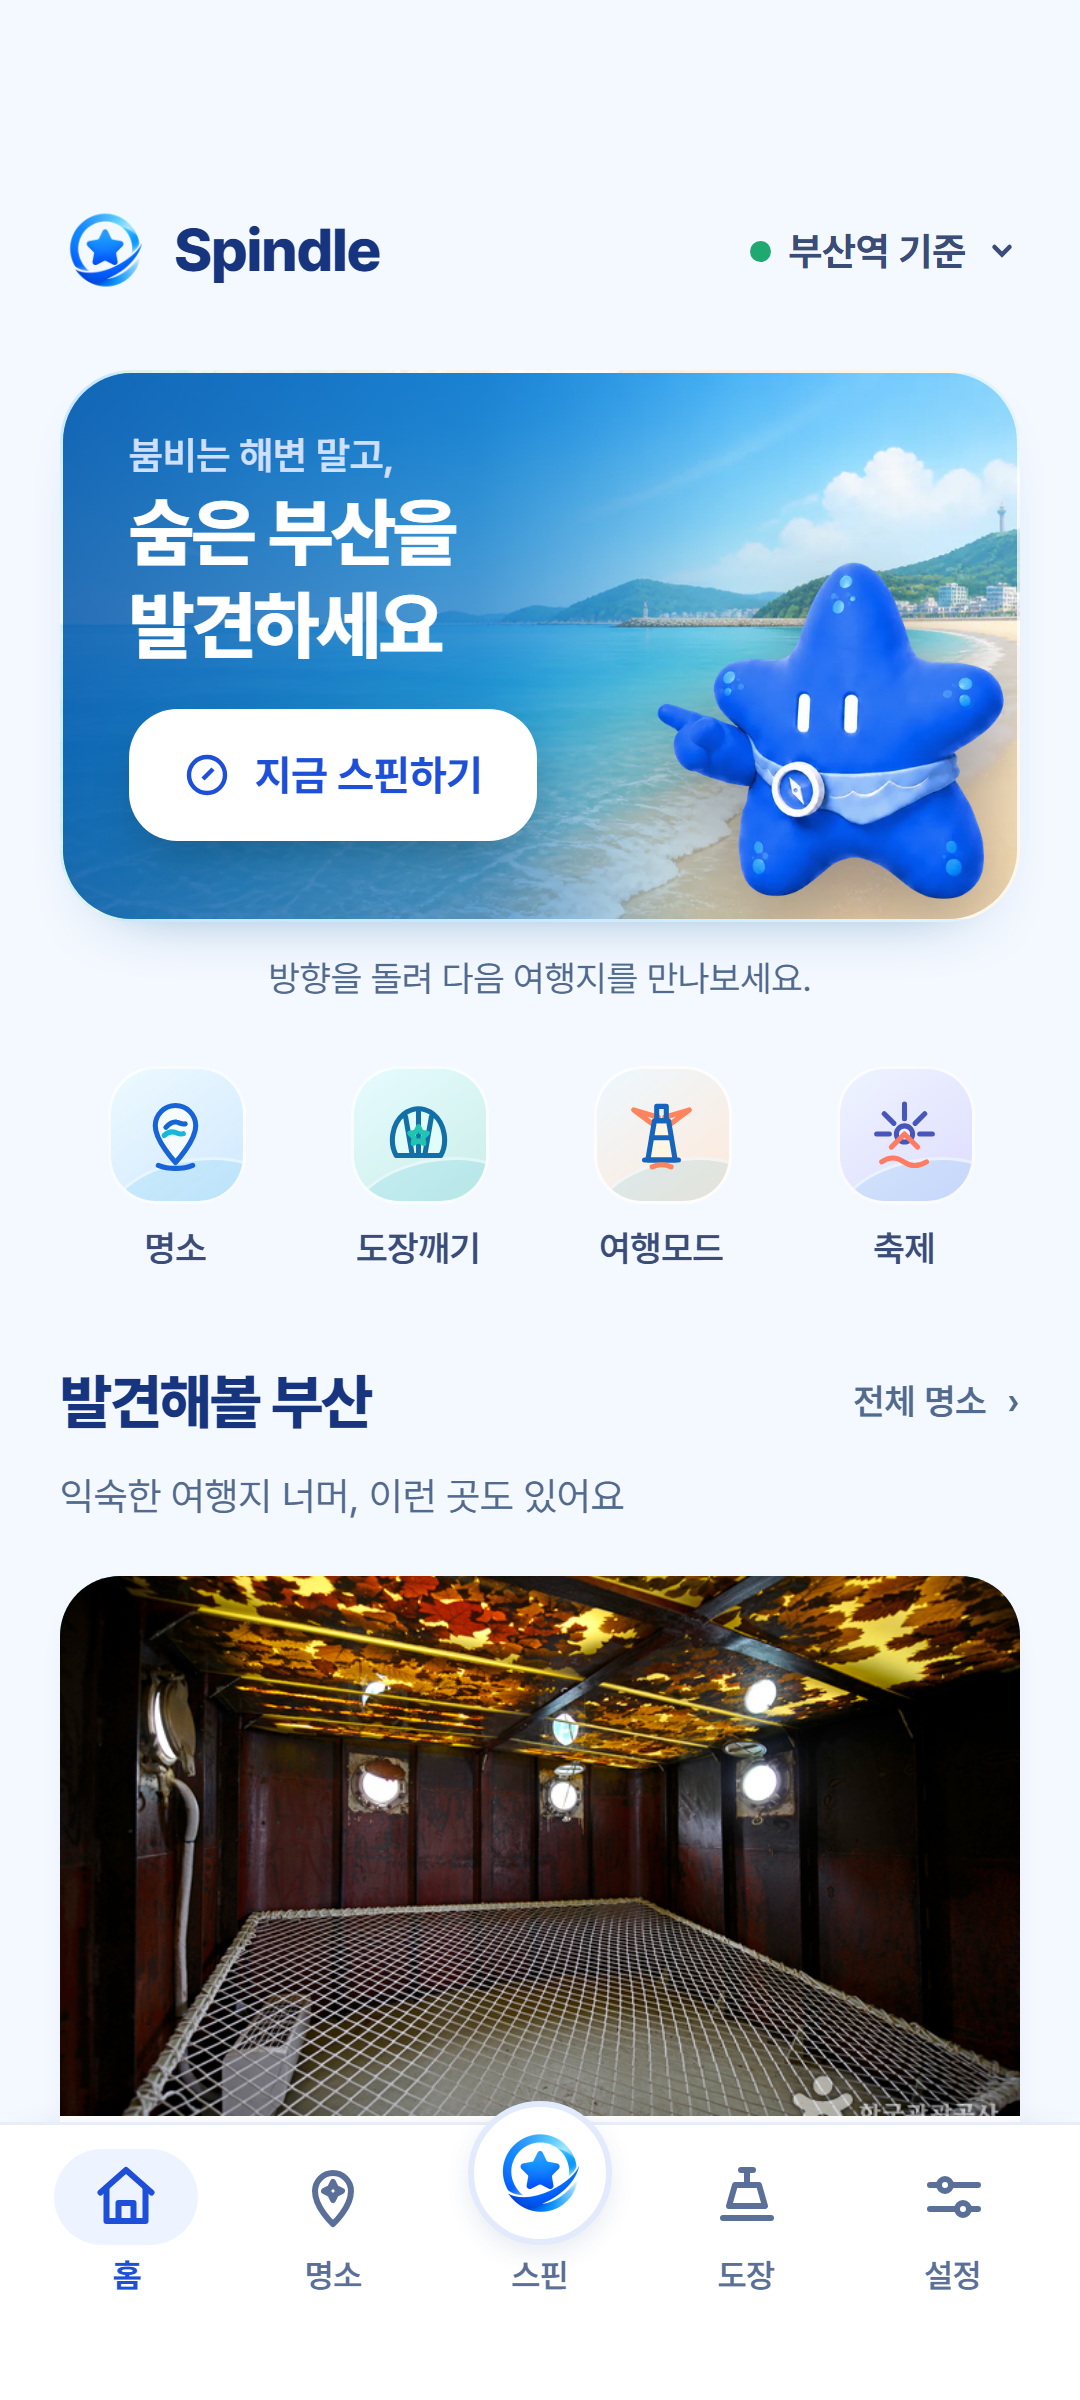
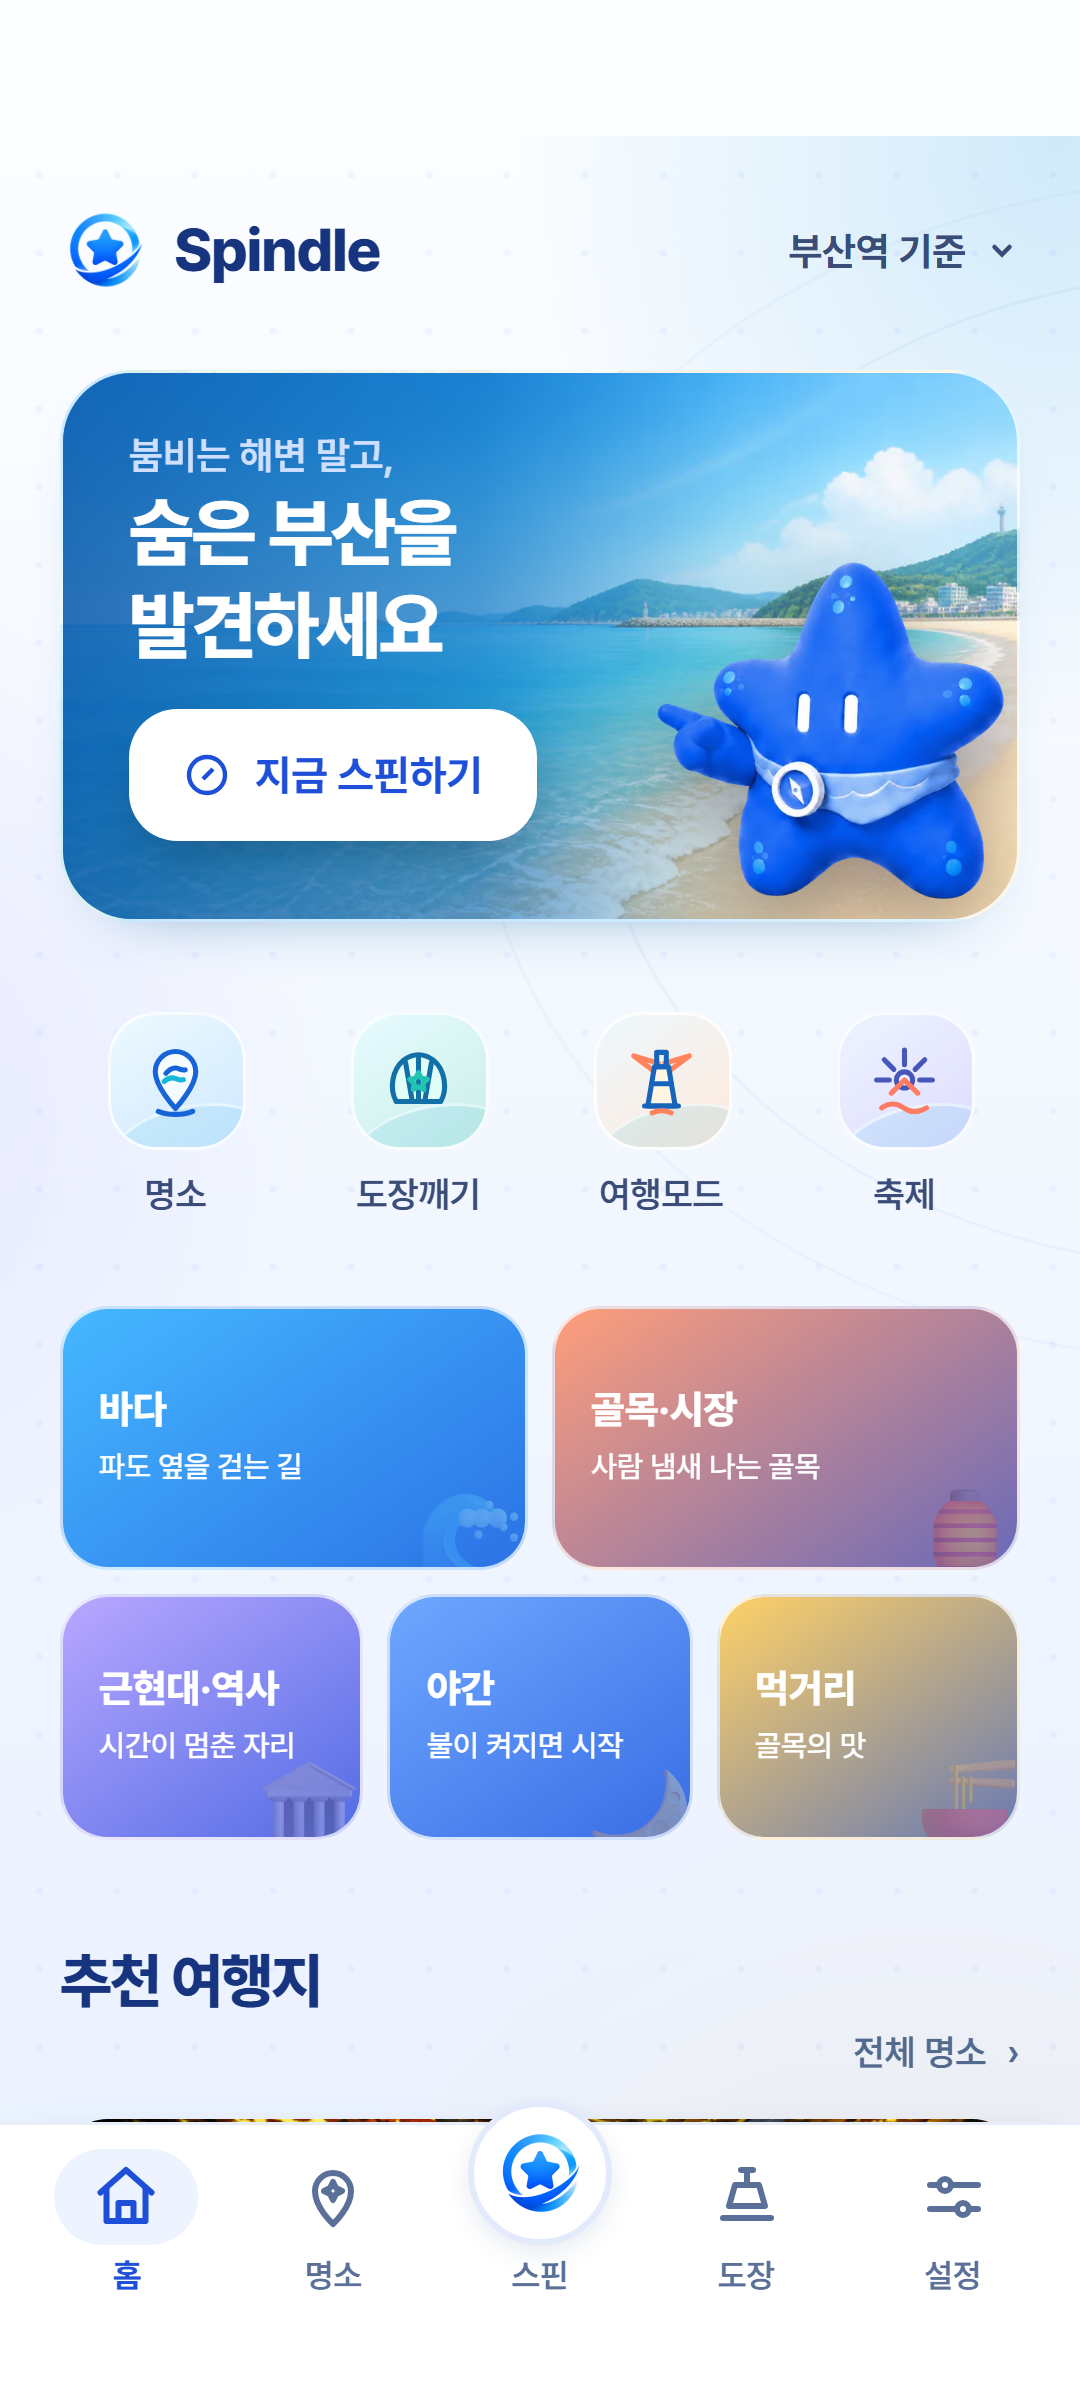
release: 1.1.0 스토어 자산과 Android vc6를 준비한다
- 프로덕션(spindle-6vp.pages.dev)에서 웹 캡처를 다시 뽑고 iOS 상태바를 합성했다.
  홈은 새 레이아웃이 반영됐고, 명소 탭은 카카오 베이스맵이 뜬 상태로 잡혔다.
- iOS·Android 릴리스 노트를 1.1.0 내용으로 다시 썼다. 원칙 6 예외대로 릴리스
  노트에는 출처를 넣지 않는다 — 같은 화면의 앱 설명에 이미 있다.
- Android를 vc6 / 1.1.0으로 올렸다. AAB는 서명 지문이 vc2~vc5와 같고
  (jar verified), Play Console 업로드·심사 제출은 사람이 한다.

홈 캡처에서 `추천 여행지`가 제목만 남고 접힌다. 테마 그리드가 위로 들어와
한 화면에 히어로·테마·추천을 다 넣을 수 없고, 스크롤을 주면 히어로가 통째로
날아간다. 히어로+빠른진입+테마를 보여주는 쪽을 골랐다.

검증: npm run check 통과 (web 416 + proxy 26).

Claude-Session: https://claude.ai/code/session_012khYwuyPqoxtsXQjXQ9szk

diff --git a/GOOGLE_PLAY_RELEASE.md b/GOOGLE_PLAY_RELEASE.md
@@ -1,11 +1,17 @@
 # Spindle Google Play 출시 인계 문서
 
+> **2026-09-09:** **vc6(`versionName 1.1.0`) AAB 빌드 완료 — 업로드는 사람이 한다.**
+> 산출물 `web/android/app/build/outputs/bundle/release/app-release.aab` (8.62 MB),
+> `jarsigner -verify` → `jar verified`, 지문 `SHA256:8B:45:7A:99:…:50:1C` (vc2~vc5와 동일).
+> 릴리스 노트는 `fastlane/metadata/android/ko-KR/changelogs/6.txt`.
+> **업로드 후 `게시 개요`에서 `검토를 위해 변경사항 제출`을 눌러야 심사에 들어간다.**
+>
 > **2026-09-08 사용자 확인:** vc5(`versionName 1.0.9`)를 **프로덕션 100%로 검토 제출 완료.**
 > 승인되면 자동 공개된다(관리형 게시 꺼짐). 아래 이전 일정과 진행 상태는 과거 기록이다.
 
 > 다음 세션에서 Google Play 등록 또는 Doply 비공개 테스트를 진행하기 전에 이 문서를 먼저 읽는다.
 >
-> 마지막 갱신: 2026-09-08 (Asia/Seoul)
+> 마지막 갱신: 2026-09-09 (Asia/Seoul)
 
 ## 0. 지금 상황 요약 (2026-09-08)
 
@@ -192,6 +198,21 @@ iOS 1.0.1~1.0.9 분량이 한꺼번에 들어갔고, 이때 `web/` 소스는 iOS
       **`검토를 위해 변경사항 N개 제출`** 버튼을 눌러야 `검토 중인 변경사항`으로 바뀐다.
       관리형 게시가 꺼져 있어 승인되면 자동 공개된다.
       웹·앱이 같은 번들이고 Play 프로덕션 100%는 롤백 수단이 없다 — 다음 업데이트에서도 실기기 검증이 유일한 안전망이다
+### vc6 / 1.1.0 (2026-09-09)
+
+iOS 1.1.0(빌드 19)과 같은 `web/` 소스다 — 커밋 `ab5235b`. 들어간 내용은
+`APP_STORE_RELEASE.md` 0절 "버전 이력"의 1.1.0 행을 본다.
+
+- [x] `versionCode 6` / `versionName "1.1.0"` 상향
+- [x] 릴리스 노트 `changelogs/6.txt` 작성
+- [x] AAB 빌드 (8.62 MB) — `web/android/app/build/outputs/bundle/release/app-release.aab`
+- [x] 서명 지문이 vc2~vc5와 같음을 확인 (`jar verified`, `SHA256:8B:45:7A:99:…:50:1C`)
+- [x] `cap sync android` 후 gradle 경로에 백슬래시 없음을 확인
+- [ ] **Play Console에 업로드하고 `검토를 위해 변경사항 제출`을 누른다** ← 사람이 하는 일
+- [ ] 승인·공개 확인
+
+### 남은 Android 실기기 확인 (버전 무관)
+
 - [ ] Android 실기기에서 결과 카드 지도 탭 잠금 해제를 확인한다 (iOS와 웹뷰가 다르다)
 - [ ] Android 실기기에서 스핀 버튼·사진 롱프레스에 드래그 고스트가 없는지 확인
       (`-webkit-user-drag: none` — iOS Live Text 수정과 같은 규칙이 Android도 덮는다)
